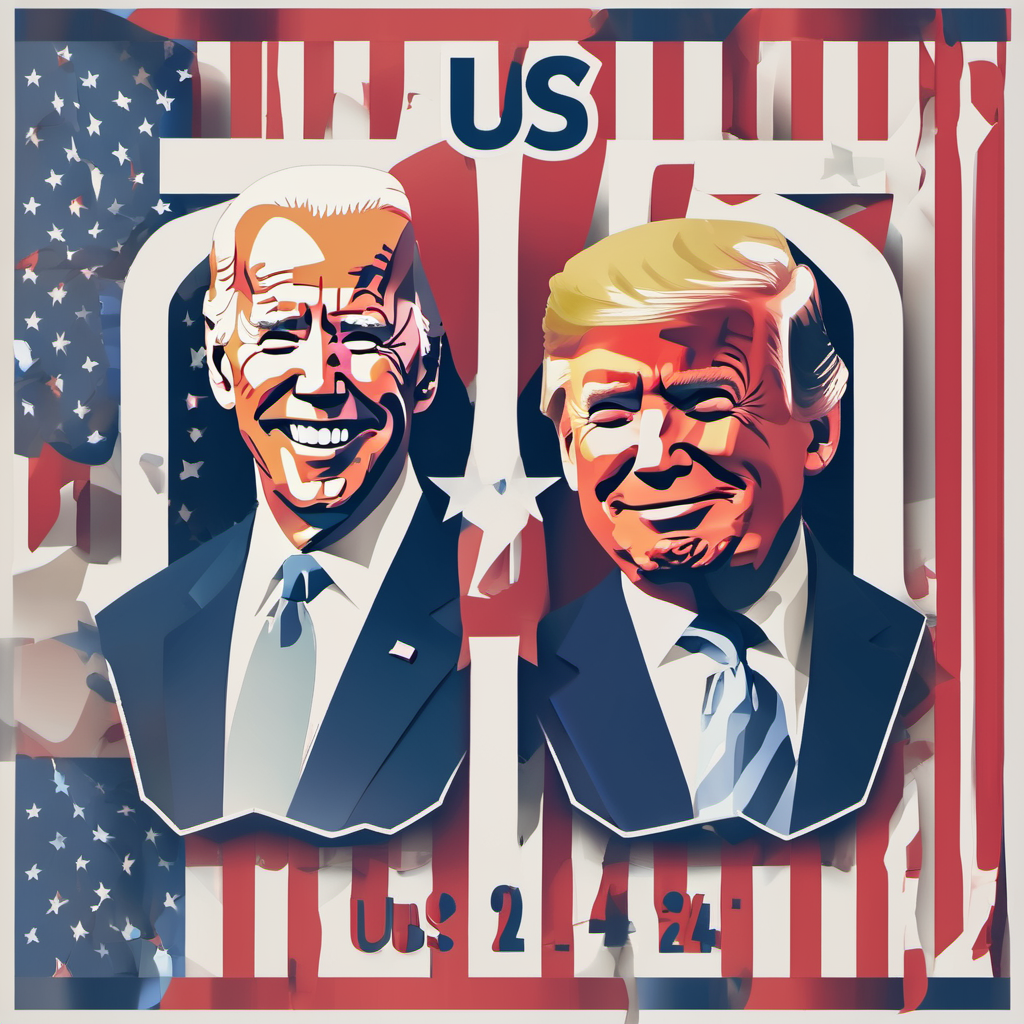
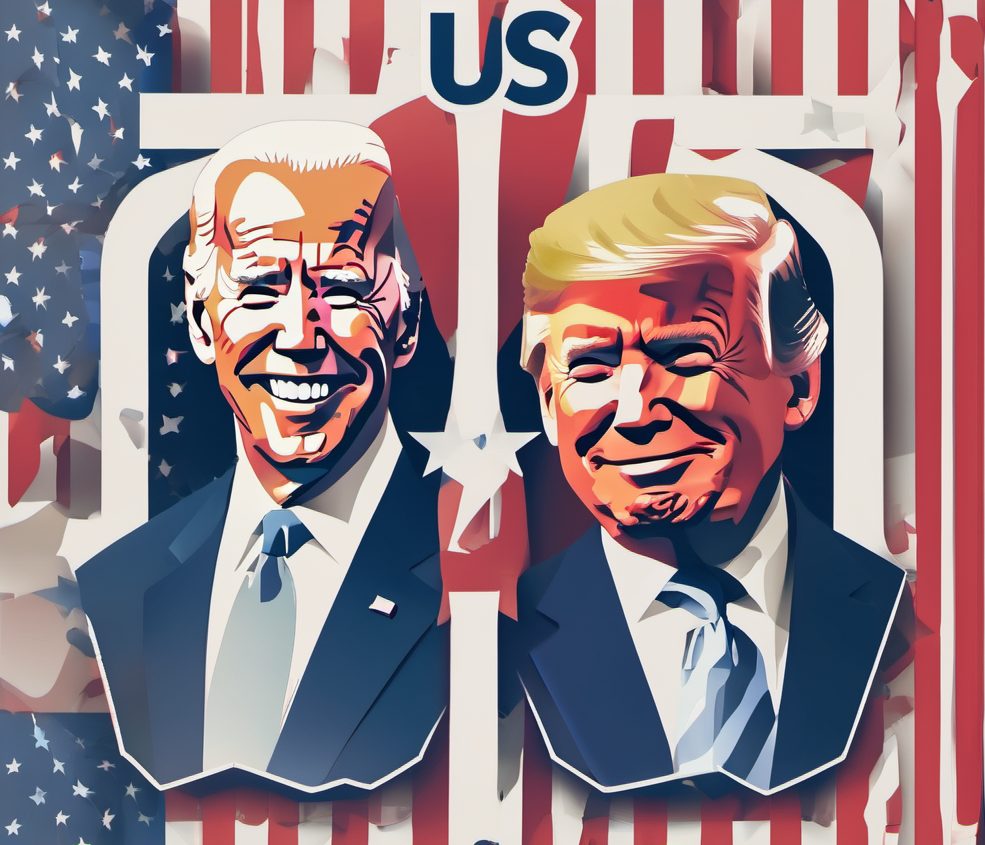
minor updates to the frontend

diff --git a/frontend/view.py b/frontend/view.py
@@ -24,18 +24,18 @@ async def websocket_handler():
 
 async def main():
     with st.sidebar:
-        st.image("docs/img/chat_header_image.png", caption='Image Source: AI Generated')
+        st.image("docs/img/background_image.png", caption='Image Source: AI Generated')
         # st.write('Image Source: AI Generated', caption='')
         st.write("🇺🇸 RAG based LLM with knowledge of the upcoming November 2024 US electoral process. \n\n"
                  "**Still a work-in-progress**")
 
     st.title("🗳 US Elections GPT")
-    st.write("I am a political analyst with advanced knowledge of the United States electoral process. I will answer "
-             "every question you have about the upcoming November 2024 US General Elections. I stay up to date by "
+    st.write("I am a political analyst with advanced knowledge of the United States electoral process. I can answer "
+             "any question about the upcoming November 2024 US General Elections. I stay up to date by "
              "sourcing news articles from **CNN**, **FoxNews**, **Politico**, and **NPR**"
-             "\n\n"
-             "*If you lean towards a political spectrum or prefer a particular news source, you can indicate in your "
-             "message query*")
+             "\n\n")
+    st.write("**POLITICAL AFFILIATION:** \n"
+             "*If you lean towards a political spectrum or prefer a particular news source, you can indicate below*")
 
     if "messages" not in st.session_state:
         st.session_state["messages"] = [
